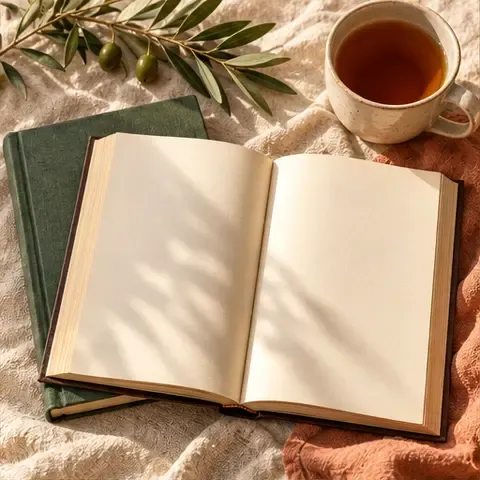
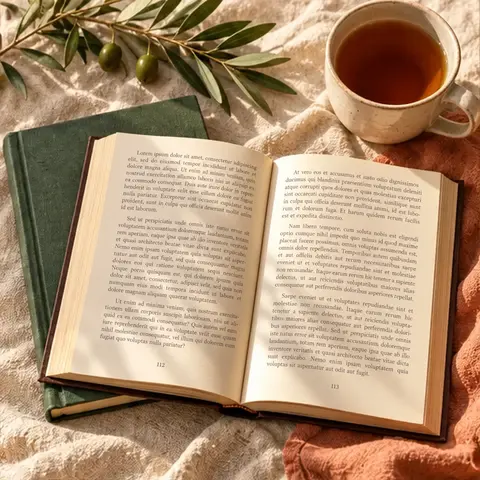
Print placeholder prose on wheel book and move READ label outward

diff --git a/apps/client/src/web/WebExperience.tsx b/apps/client/src/web/WebExperience.tsx
@@ -67,7 +67,7 @@ function Wheel({ rotor, tick, spinning, onSpin, onSpinCategory, choices }: {roto
         <path d={sector(i)} fill="#382324" opacity={record?'.48':'.22'}/>
         <g transform={`rotate(${i*degrees} 300 300)`} fill="#fff6ee">
           {record&&<foreignObject x="273" y="75" width="54" height="60"><div className={`sector-icon ${record||i%2===0?'light':''}`}><Icon name={icon} size={record?32:42}/></div></foreignObject>}
-          <text x="300" y={record?159:94} textAnchor="middle" fontSize={record?17:19} fontFamily="RandomSans">{record?choiceLines(label).map((line,n)=><tspan key={n} x="300" dy={n?22:0}>{line}</tspan>):label}</text>
+          <text x="300" y={record?159:c.id==='READ'?72:94} textAnchor="middle" fontSize={record?17:19} fontFamily="RandomSans">{record?choiceLines(label).map((line,n)=><tspan key={n} x="300" dy={n?22:0}>{line}</tspan>):label}</text>
         </g>
         {!choices&&<path className="wheel-sector-control" d={sector(i)} fill="transparent" role="button" tabIndex={spinning?-1:0} aria-label={locale==='en'?`Spin in ${label}`:`Zavrti kategoriju ${label}`} aria-disabled={spinning} data-wheel-category={WHEEL_CATEGORIES[i].id} onClick={event=>{event.stopPropagation();if(!spinning)onSpinCategory(WHEEL_CATEGORIES[i].id);}} onKeyDown={event=>{if(event.key==='Enter'||event.key===' '){event.preventDefault();if(!spinning)onSpinCategory(WHEEL_CATEGORIES[i].id);}}}><title>{label}</title></path>}
       </g>;})}
